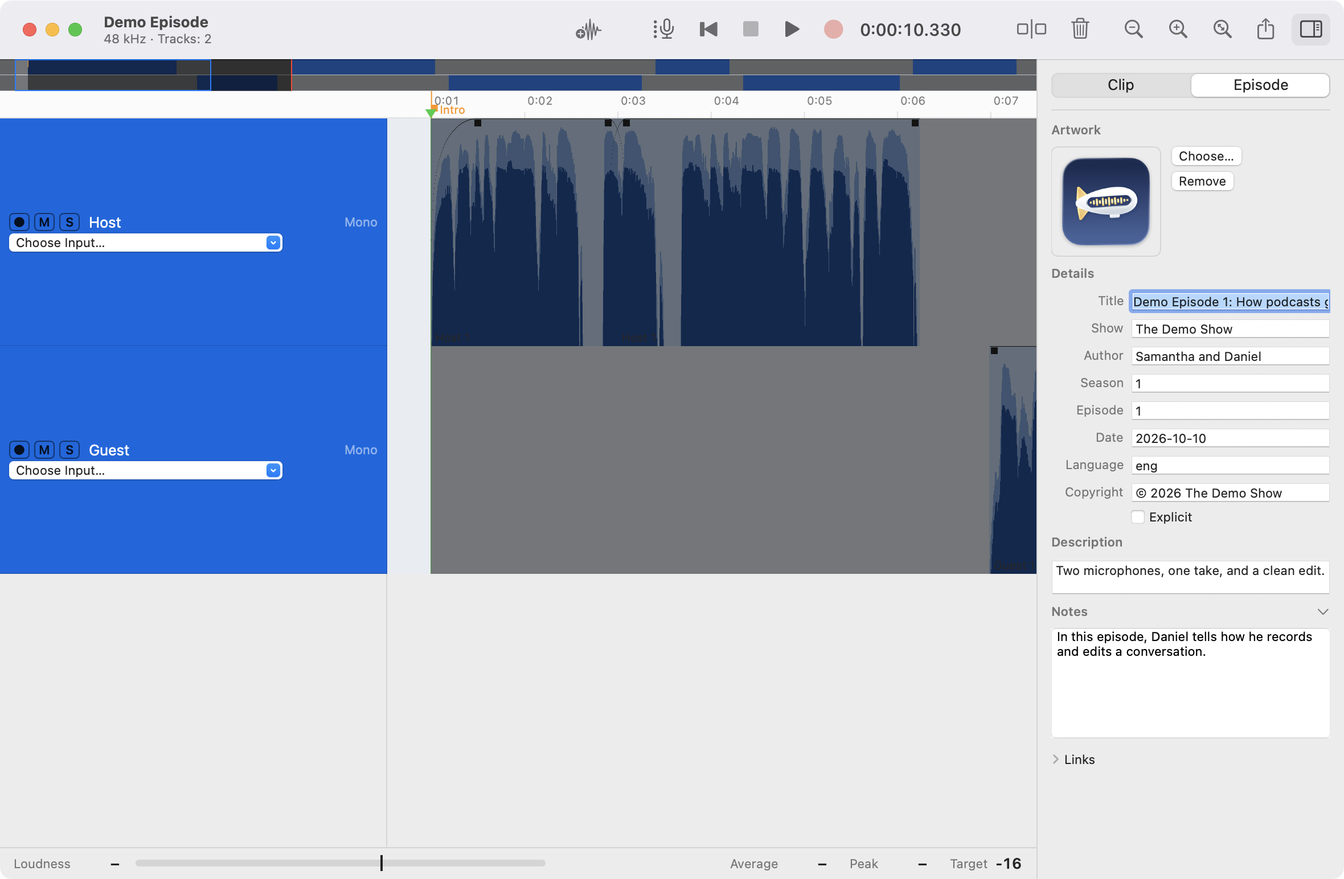
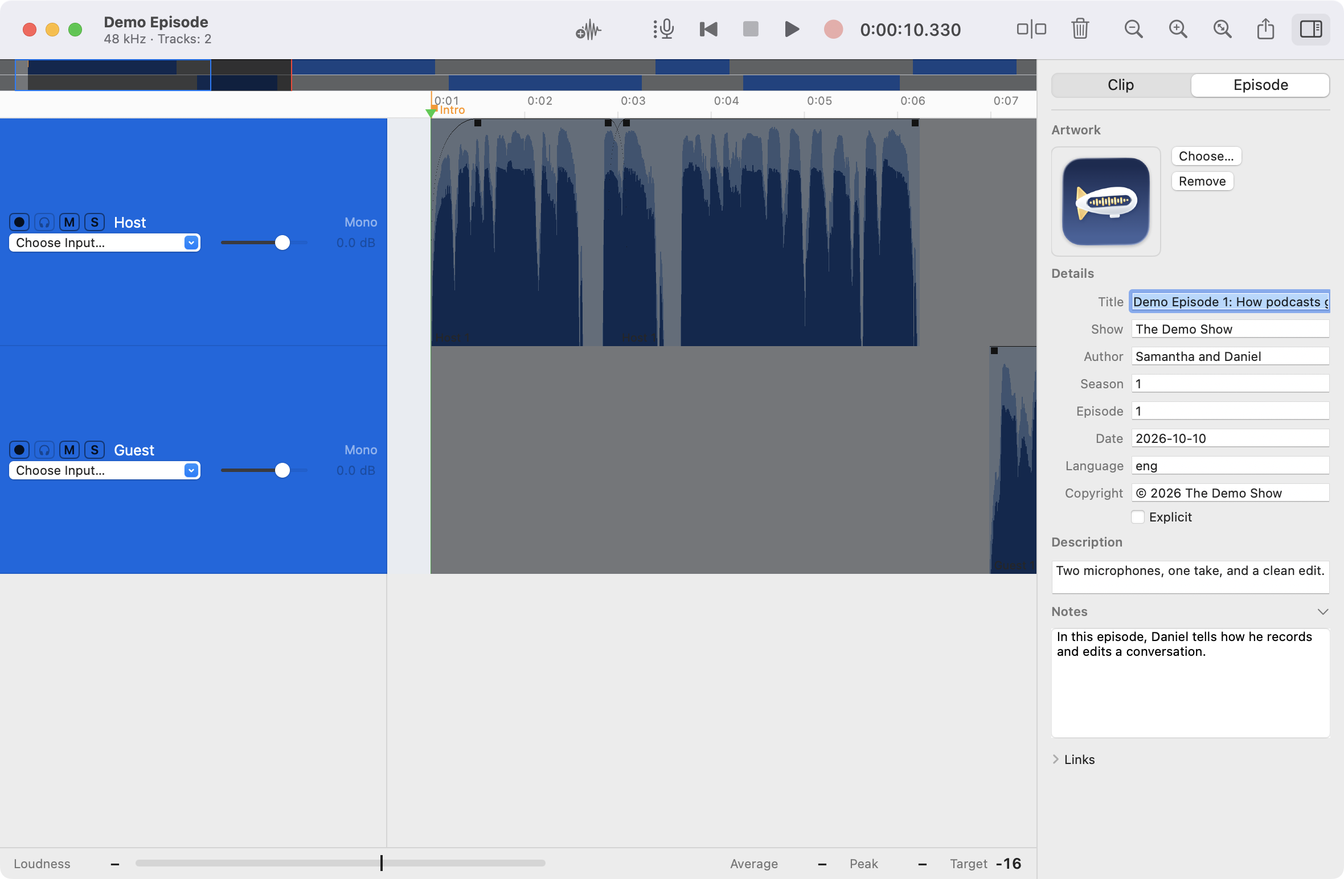
docs: describe the track volume fader
The guide gets a section on the track volume and the three Track menu
rows. The screenshots show the fader. Decisions 0039 and 0016 note the
gain crossfade and the header fader, 0008 notes the gain range, and
0024 notes the reader clamp. Release 3 item 2 states the range rule of
every edit path. The research of the run moves to docs/research.

diff --git a/Sources/DirigibleCore/Gain.swift b/Sources/DirigibleCore/Gain.swift
@@ -21,7 +21,8 @@ public struct Gain: Hashable, Sendable, CustomStringConvertible {
 
     public static let zero = Gain(dB: 0)!
     /// The gain limit of decision 0008, in dB, in each direction: auto-level, the warning of the
-    /// export report, the start rule of the gain drag of the lanes, and the clamp of the inspector.
+    /// export report, the start rule of the gain drag of the lanes, the clamp of the inspector, and
+    /// the top of the track fader (`FaderScale`).
     public static let levelLimit = 20.0
     public var description: String { "\(dB) dB" }
 }

diff --git a/docs/research/track-fader.md b/docs/research/track-fader.md
@@ -1,0 +1,142 @@
+# Track volume fader in the track header (F94)
+
+Date: 2026-10-11
+
+This file answers six questions on a track volume control in the track header. It does not repeat `docs/research/mute-solo.md`, `docs/research/podcast-features.md`, or the `.nhsx` facts of `docs/research/session-formats.md`.
+
+Grades: **P** is a primary vendor page, a vendor manual, vendor source code, or a file in the installed app bundle. **S** is a search summary or a secondary page. **U** is a user post on a forum. **O** is our observation of a vendor image or video frame. "Unconfirmed" means that no source answers. A sentence that starts with "Inference:" is our reading. No probe, build, or on-screen check ran. The installed apps are Logic Pro 12.3.1, GarageBand 10.4.14, and Final Cut Pro 12.3.
+
+## 1. Hindenburg PRO 2 and Hindenburg Journalist
+
+- **Control.** Each track header has a "Track Volume" control and a "Track Balance" control [HJ p44] (P). The Journalist 1.21 screenshots show a horizontal slider with a speaker icon, above a pan slider [HJ p45] (O). A frame of the vendor video "Hindenburg PRO: Tracks - Volume" shows the same horizontal slider in PRO 2 [HV] (O). The guide page lists "Tracks - Volume: Adjust the volume on the track" [HG] (P).
+- **Reset.** "To reset the volume to 0dB, double-click on the Volume button" [HJ p45] (P). The pan reset is also a double-click: "To reset to center, double-click on the balance button" [HJ p45] (P). The Journalist region gain line also resets with a double-click [HJ p31] (P).
+- **Readout.** The PRO video frame shows a green tag "+0.0 dB" next to the slider while the pointer is on the thumb [HV] (O). The tag shows the sign. The region gain tooltip of Journalist shows "-4.8 dB = current level" and "(-2,3) = gain change made by user" [HJ p31] (P).
+- **Range.** No source states the minimum or the maximum (unconfirmed). Observation: at "+0.0 dB" the thumb is at approximately 80 % to 85 % of the slider travel, in the PRO frame [HV] (O) and in the Journalist screenshot [HJ p45] (O). A second PRO frame shows the thumb at the right end [HV] (O); its value is not visible. The `.nhsx` field guide measured `Volume="6"` as +6 dB on a render [NX] (S, a measured reverse-engineered guide). Inference: the maximum is above 0 dB, and +6 dB is consistent with the three data points. The minimum and a -inf end are unconfirmed.
+- **Mix volume or input gain.** Journalist says "Adjust the overall volume for the track" [HJ p45] (P). Inference: it is the playback mix volume, not the record gain. No page says what it does to a take that records.
+- **Saved in the session.** The `.nhsx` `Track` element has `Volume` in dB ("the track fader") [NX] (S, measured). The field guide also lists `Gain` as "older spelling of track gain, dB" on a `Track`, and asks whether both can coexist (its open question 6) [NX] (S). `session-formats.md` names the two spellings only for regions.
+- **Keys and menus.** The Journalist key table lists no key for track volume [HJ p97] (P). Shift-Command-Up and Shift-Command-Down are region "Gain up" and "Gain Down", not track volume [HJ p97] (P). A track volume menu item: unconfirmed. The PRO 2 shortcut page returned a server error on fetch [HSC].
+- **Change during a take.** Unconfirmed.
+
+## 2. Logic Pro and GarageBand
+
+- **Logic track header.** "In the track header, drag the Volume slider left to lower the volume level, or drag it right to raise the volume level." "You might have to resize the track header in order to see the Volume slider." [LTV] (P). Track > Configure Track Header chooses the shown controls [LTH] (P, see `logic-garageband-update.md`).
+- **Logic reset.** "Option-click the slider to return it to a neutral level (0 dB gain)." [LTV] (P). The channel strip fader resets the same way [LCV] (P).
+- **Logic fine drag.** "Press and hold Shift while dragging the Volume fader to change the volume level in finer increments." [LCV] (P). This page is for the channel strip fader. Shift on the track header slider: unconfirmed.
+- **Logic range and taper.** "The maximum boost is +6 dB." "You can reset the Volume fader to 0 dB (90) by Option-clicking it." [L9] (P, Logic 9.1.6 manual). So 0 dB is at the value 90 of 127, which is 0.709 of the travel. Logic 12.3 range: unconfirmed. User posts say that the top is +6.0 dB [LCU] (U). The minimum is -inf: unconfirmed in a vendor page.
+- **Logic readout.** The track header slider holds a level meter: "The level meter in a track's Volume slider shows the output volume for the track as the project plays." [LTV] (P). Help tags show "parameter values" while you edit, when "Show Help Tags" is on [LHT] (S). A dB help tag on the track volume slider: unconfirmed.
+- **GarageBand.** The page text is the same as Logic: drag left or right, "Option-click the slider to return it to a neutral level (0 dB gain)", and a level meter in the slider [GTV] (P). "You can watch the level meter as you record to the track to see if clipping occurs on the track." [GTV] (P). Range: a user post reports +6.0 dB [GCU] (U). Fine drag and readout: unconfirmed.
+- **Keys.** A default key for track volume in Logic or GarageBand: unconfirmed.
+- **Mix volume or input gain.** A user post says that the header slider sets the playback volume after the recording [GAV] (U). Inference: the same in Logic.
+
+## 3. Final Cut Pro
+
+- **Readout.** "As you drag, the volume level in dB appears, and the waveform changes shape to reflect your adjustments." [FV] (P).
+- **Commands.** The app bundle names the commands "Raise Volume 1 dB", "Lower Volume 1 dB", "Reset Volume (0db)", "Set Volume to Silence (-∞)", "Adjust Volume Absolute…", and "Adjust Volume Relative…" [FCS] (P, `NSProCommandNames.strings`).
+- **Keys.** The default command set binds `VolumeUp` to Control-= (and Control-= on the keypad) and `VolumeDown` to Control-minus [FCK] (P, `en.lproj/Default.commandset`). Reset and Silence have no default key in that file [FCK] (P). The user guide adds Control-Option-L for absolute and Control-L for relative [FV] (P).
+- **Inspector.** "Drag the Volume slider right to increase the volume, or left to decrease it." [FV] (P). The iPad guide says that the inspector offset and the timeline volume add up [FVI] (P).
+- **Range.** The user guide gives no minimum or maximum (unconfirmed). Forum posts of 2004 to 2011 say +12 dB [FCU] (U). Those posts are for Final Cut Pro 4 to 7, before Final Cut Pro X. The minimum is -inf through Silence [FCS] (P).
+- **Fine drag.** Unconfirmed.
+
+## 4. Adobe Audition and Reaper
+
+- **Audition.** The Editor panel has a Volume knob on each track. Shift-drag changes it in large steps. Ctrl-drag (Windows) or Command-drag (macOS) changes it in small steps [AUB] (S, search summary of the Adobe page; the page refused the fetch with 403). "Alt-click or Option-click directly on a knob or fader returns it to unity gain" [AUB] (S). "Track volume can be set in the volume field on the left of the track" [AUK] (U, Community Expert). Range: unconfirmed.
+- **Reaper.** Modifiers on the volume fader [RG §5.2] (P, 7.81 guide):
+  - Ctrl: "Allows more precise control of fader level."
+  - Double click: "Reset to zero (fader) or center (rotary)."
+  - Alt: "When mouse is released, fader returns to its original position."
+  - Ctrl-Shift: with more than one track selected, only the current track changes.
+- **Reaper mix volume.** "the recording level cannot be controlled by adjusting the Track's volume fader: that controls only the playback level." [RG p59] (P).
+- **Reaper range and taper.** The preferences can "restrict the adjustable range of your volume and/or pan faders. The top of the volume range can be set to 0dB or higher." A shape option exists: "set this to 1.0 and the fader becomes a log curve." [RG §22.7] (P). The default range: unconfirmed. The default gain of a new track is 0.0 dB [RG §22.3.2] (P).
+
+## 5. Apple HIG, AppKit, and SwiftUI
+
+- **HIG.** "Use familiar slider directions": the minimum is on the leading side [HIG] (P). For macOS: "provide a tooltip that displays the value of the thumb when people hold their pointer over it", and "Consider giving live feedback as the value of a slider changes." [HIG] (P). "Consider supplementing a slider with a corresponding text field" for exact values [HIG] (P). The rule "Don't use a slider to adjust audio volume" is in the **iOS, iPadOS** section, and is about the system volume view. It is not a macOS rule [HIG] (P).
+- **Small size.** `ControlSize.small` is "for controls that can't be resized in one direction, such as … sliders". "Use a small system font with a small control." [CS] (P).
+- **NSSlider.** `altIncrementValue` is "The amount by which the slider changes its value when the user Option-drags the slider knob." [NSS] (P). `neutralValue` (the fill origin) is macOS 26.0 and later [NSN] (P), so it is not available on macOS 14.
+- **NSSlider double-click.** No AppKit page gives a double-click behavior for `NSSlider` (unconfirmed). A Cocoa-dev reply says to read `clickCount` in an override of `mouseDown(with:)`. It also says that `NSSlider` tracks the drag inside `mouseDown`, so `mouseUp` can fail to arrive [CD] (U). Inference: a double-click reset in AppKit needs a subclass.
+- **Accessibility.** `NSSlider` conforms to `NSAccessibilitySlider` [NSS] (P). That protocol has `accessibilityLabel()`, `accessibilityValue()`, `accessibilityPerformIncrement()`, and `accessibilityPerformDecrement()` [NAS] (P). `accessibilityValueDescription()` gives "the human-readable description of the accessibility element's value" [NAV] (P). In SwiftUI, `accessibilityAdjustableAction(_:)` (macOS 10.15) adds the increment and decrement action to a custom view [SAA] (P). A SwiftUI `Slider` "uses the `step` to increase or decrease the value when a VoiceOver user adjusts the slider" [SS] (P).
+- **SwiftUI `Slider`.** "The slider calls `onEditingChanged` when editing begins and ends. For example, on iOS, editing begins when the user starts to drag the thumb along the slider's track." [SSE] (P). The page gives the iOS case only; the macOS mouse-down and mouse-up timing is unconfirmed. `Slider` maps the value linearly ("a bounded linear range of values") [SS] (P). Inference: a dB taper needs a slider over a position (0 to 1) and a map from the position to dB. The `neutralValue` initializers are macOS 26.0 and later [SNV] (P).
+- **SwiftUI double-click.** No source covers a double-click on a `Slider` (unconfirmed). On a macOS `List`, a `TapGesture(count: 2)` breaks the single-click selection [AF] (U). That is an analogy only.
+
+## 6. Taper for a 60 to 120 pt slider
+
+- **Ardour source.** Ardour maps the gain coefficient `g` (0 to 2, so the top is +6 dB) to a position `p` (0 to 1) [AR] (P, `libs/pbd/pbd/control_math.h`):
+
+```c
+return pow ((6.0 * log (g) / log (2.0) + 192.0) / 198.0, 8.0);
+```
+
+- Positions from this formula (our arithmetic): +6 dB 1.00; 0 dB 0.78; -3 dB 0.69; -6 dB 0.61; -12 dB 0.47; -20 dB 0.32; -40 dB 0.12; -60 dB 0.04. `g == 0` (-inf) is position 0.
+- **Logic data point.** 0 dB at 90 of 127, which is 0.71 [L9] (P). Hindenburg: 0 dB at approximately 0.80 to 0.85 [HV] (O). Inference: the three apps put 0 dB at 70 % to 85 % of the travel.
+- **Linear in dB.** Over -60 to +6 dB (66 dB) the scale is constant: 0.91 pt per dB at 60 pt, 1.5 pt per dB at 100 pt, 1.8 pt per dB at 120 pt. 0 dB is at 0.91 of the travel. The last few points at the left must snap to -inf.
+- **Ardour curve, 100 pt.** From -6 to 0 dB it gives 17.5 pt (2.9 pt per dB). From -40 to -20 dB it gives 20 pt (1 pt per dB). From -60 dB to the left end it gives 4 pt.
+- **Tradeoff.** The curve gives more travel near 0 dB, where a podcaster sets a speaker level (0 to -12 dB). Linear in dB is simpler to test and to read, but at 60 pt one point is more than 1 dB. At 60 to 120 pt, one mouse point is 0.3 to 1.1 dB near 0 dB with either scale. Inference: a fine drag modifier and a typed or keyed step matter more than the curve at this width.
+
+## Open questions for the plan
+
+1. The Hindenburg PRO 2 minimum and maximum. Check the readout at both ends in a trial copy.
+2. A probe for SwiftUI on macOS 14 (run after the loop, in a probe folder). The question: does a drag still start, and when does `onEditingChanged` fire?
+
+```swift
+import SwiftUI
+struct Probe: View {
+    @State var position = 0.78
+    var body: some View {
+        Slider(value: $position, in: 0...1) { editing in print("editing", editing, Date()) }
+            .controlSize(.small)
+            .frame(width: 100)
+            .simultaneousGesture(TapGesture(count: 2).onEnded { position = 0.78; print("double") })
+    }
+}
+```
+
+   Run it again with `.onTapGesture(count: 2)` in place of `.simultaneousGesture`.
+3. The reset gesture: double-click (Hindenburg, Reaper) or Option-click (Logic, GarageBand, Audition). Option-click also conflicts with the AppKit Option-drag of `altIncrementValue` if the control uses AppKit. This is a plan decision.
+
+## Inputs for the run
+
+- **Range.** No agreement. The sources agree only that 0 dB is unity and that the top is above 0 dB. Logic +6 dB [L9] (P, Logic 9). Hindenburg +6 dB is consistent but not stated [NX] [HV]. Final Cut Pro +12 dB in legacy versions [FCU] (U). Reaper is configurable [RG]. A -inf bottom: Final Cut Pro Silence [FCS] (P); others unconfirmed.
+- **Taper.** 0 dB sits at 70 % to 85 % of the travel in Logic [L9] (P), Ardour [AR] (P), and Hindenburg [HV] (O). Ardour publishes its curve. Linear in dB is not seen in these references.
+- **Reset.** Two groups. Double-click: Hindenburg [HJ] (P), Reaper [RG] (P). Option-click: Logic [LTV] (P), GarageBand [GTV] (P), Audition [AUB] (S). The target is 0 dB in all of them.
+- **Fine drag.** No agreement. Shift: Logic channel strip [LCV] (P). Command: Audition [AUB] (S). Ctrl: Reaper [RG] (P). AppKit gives Option-drag steps [NSS] (P).
+- **Keys.** Only Final Cut Pro has owner-source keys: Control-= and Control-minus for 1 dB steps [FCK] (P). Track volume keys in Hindenburg, Logic, GarageBand, and Audition: unconfirmed. Hindenburg Shift-Command-Up and Shift-Command-Down are region gain [HJ] (P).
+- **Readout.** Agreement: a dB value shows during the drag. Hindenburg "+0.0 dB" tag with the sign and one decimal [HV] (O). Final Cut Pro "the volume level in dB appears" [FV] (P). Logic help tags show parameter values [LHT] (S). HIG asks for a value tooltip [HIG] (P).
+- **Mix volume, not record gain.** Reaper states it [RG] (P). Hindenburg and GarageBand: Inference and U only.
+
+## Sources
+
+- [HJ] Hindenburg Journalist 1.21 user guide for OS X, pages 31, 44, 45, 97 (text and images read with PDFKit on 2026-10-11): https://www.willyurman.com/teaching/handouts/Hindenburg_Journalist.pdf
+- [HV] Hindenburg vendor video "Hindenburg PRO: Tracks - Volume" (21 s), frames `maxres1` to `maxres3`: https://hindenburg.com/data/youtube/videos/how-to-adjust-the-volume-on-a-track-in-hindenburg-pro-hindenburg/ and https://www.youtube.com/watch?v=cAiJ6LQ_UXg
+- [HG] Hindenburg PRO guides page: https://hindenburg.com/academy/guides/guides-hindenburg-pro/
+- [HSC] Hindenburg PRO 2 shortcuts (server error on 2026-10-11): https://hindenburg.com/academy/shortcuts/shortcuts-hindenburg-2-pro/
+- [NX] `.nhsx` field guide, section 5, measured against Hindenburg PRO 2.05.2718: https://github.com/ollisulopuisto/podcast/blob/main/docs/hindenburg-nhsx-format.md
+- [LTV] Logic Pro, track volume in the track header: https://help.apple.com/logicpro/mac/10.1/en.lproj/lgcp86b5c092.html
+- [LTH] Logic Pro, track header overview: https://help.apple.com/logicpro/mac/10.1/en.lproj/lgcpe53c68af.html
+- [LCV] Logic Pro, set channel strip volume: https://help.apple.com/logicpro/mac/10.4.5/en.lproj/lgcp8ec34eec.html
+- [L9] Logic Pro 9.1.6 manual, setting channel strip levels: https://help.apple.com/logicpro/mac/9.1.6/en/logicpro/usermanual/chapter_27_section_9.html
+- [LHT] Logic Pro 9.1.6, display preferences (search summary): https://help.apple.com/logicpro/mac/9.1.6/en/logicpro/usermanual/chapter_44_section_6.html
+- [LCU] Apple Community, "Logic Pro X max volume on mixer only goes…": https://discussions.apple.com/thread/251378765
+- [GTV] GarageBand for Mac, track volume: https://help.apple.com/garageband/mac/10.1.5/en.lproj/gbnd79295c4f.html
+- [GCU] Apple Community, "GarageBand - Volume on track Glitches": https://discussions.apple.com/thread/251446572
+- [GAV] Ask.Video forum, header slider versus record level (search summary): https://test.ask.video/forums/audio/garageband/thread/9669-different-recording/3
+- [FV] Final Cut Pro for Mac, adjust volume: https://support.apple.com/guide/final-cut-pro/verc1fabb77/mac
+- [FVI] Final Cut Pro for iPad, adjust volume: https://support.apple.com/guide/final-cut-pro-ipad/dev9ffc54d16/ipados
+- [FCS] Final Cut Pro 12.3 app bundle, `Contents/Resources/en.lproj/NSProCommandNames.strings` and `NSProCommandDescriptions.strings` (read on 2026-10-11)
+- [FCK] Final Cut Pro 12.3 app bundle, `Contents/Resources/en.lproj/Default.commandset` (read with `plutil -p` on 2026-10-11)
+- [FCU] Legacy Final Cut Pro forum posts on +12 dB: https://www.dvinfo.net/forum/final-cut-suite/50432-boosting-volume.html and https://creativecow.net/?p=513747
+- [AUB] Adobe Audition, basic multitrack controls (403 on fetch; search summary): https://helpx.adobe.com/audition/desktop/mixing-multitrack-sessions/basic-multitrack-controls.html
+- [AUK] Adobe Community, "multitrack change volume of track with keyboard": https://community.adobe.com/t5/audition-discussions/multitrack-change-volume-of-track-with-keyboard/m-p/14936737
+- [RG] REAPER User Guide 7.81 (text read with PDFKit on 2026-10-11), section 5.2, page 59, sections 22.3.2 and 22.7: https://www.reaper.fm/userguide/ReaperUserGuide781c.pdf
+- [AR] Ardour source, `libs/pbd/pbd/control_math.h`: https://github.com/Ardour/ardour/blob/master/libs/pbd/pbd/control_math.h
+- [HIG] Human Interface Guidelines, Sliders: https://developer.apple.com/design/human-interface-guidelines/sliders
+- [CS] AppKit, `NSControl.ControlSize.small`: https://developer.apple.com/documentation/appkit/nscontrol/controlsize-swift.enum/small
+- [NSS] AppKit, `NSSlider` (members and conformances): https://developer.apple.com/documentation/appkit/nsslider
+- [NSN] AppKit, `NSSlider.neutralValue`: https://developer.apple.com/documentation/appkit/nsslider/neutralvalue
+- [NAS] AppKit, `NSAccessibilitySlider`: https://developer.apple.com/documentation/appkit/nsaccessibilityslider
+- [NAV] AppKit, `accessibilityValueDescription()`: https://developer.apple.com/documentation/appkit/nsaccessibilityprotocol/accessibilityvaluedescription()
+- [SS] SwiftUI, `Slider`: https://developer.apple.com/documentation/swiftui/slider
+- [SSE] SwiftUI, `Slider.init(value:in:onEditingChanged:)`: https://developer.apple.com/documentation/swiftui/slider/init(value:in:oneditingchanged:)
+- [SNV] SwiftUI, `Slider` initializer with `neutralValue`: https://developer.apple.com/documentation/swiftui/slider/init(value:in:neutralvalue:enabledbounds:label:currentvaluelabel:minimumvaluelabel:maximumvaluelabel:oneditingchanged:)
+- [SAA] SwiftUI, `accessibilityAdjustableAction(_:)`: https://developer.apple.com/documentation/swiftui/view/accessibilityadjustableaction(_:)
+- [CD] Cocoa-dev, double-click on an `NSSlider`: https://lists.apple.com/archives/Cocoa-dev/2007/Mar/msg00767.html and https://lists.apple.com/archives/Cocoa-dev/2007/Apr/msg00550.html
+- [AF] Apple Developer Forums, double tap on a macOS `List` item: https://developer.apple.com/forums/thread/654154

diff --git a/docs/requirements/releases.md b/docs/requirements/releases.md
@@ -123,7 +123,7 @@ Rules for Release 3:
 Run order. The research for this order is in `docs/research/podcast-features.md`, `document-window.md`, `mouse-edits.md`, `final-cut-pro.md`, `logic-garageband-update.md`, and `podcasting-2.md`. The tester requests are in `.scratchpads/runs/feedback-2026-10-04.md` (B1.5, B2.7, B2.9, B2.10).
 
 1. **Record monitor (F02 part).** The tester asked for it two times (B1.5, B2.10). A Monitor button in each track header, next to Arm, sends the input of the track to the output, before and during a take. Start with a probe: the latency and the clock drift from the built-in microphone, and from a USB device, to the headphones. `CaptureRing` has one consumer, the `DeviceWriter`. The monitor needs a second ring that the input proc fills, and an output render that reads it and absorbs the drift. Input and output are different devices with no aggregate device (0004). When the output is the built-in speakers, the monitor plays nothing, its button keeps its state, and the "Use headphones" banner shows (F43, `DeviceList.speakers`). An app track has no monitor: the user already hears the call app. Give the meter item and the monitor item two clear names: the toolbar item Monitor Inputs shows only meters today. The monitor state is window state, as Arm, so the session version does not change. No `dirigible` command: the monitor writes nothing to a package, and its output is for a person (0015). The UI expert panel picks the header layout, and the layout keeps space for the fader of run 2. One-way decisions: the owner and the thread of the monitor output path (the `Player` engine with a source node, a second engine, or a separate output IOProc; the Owners rule of 0013); the owner of the monitor input feed, which must live across the hand-over to a take (0015); the drift rule of the monitor ring; whether playback runs during a take (0039 Consequences gives this choice to this run, also for M and S during a take). Research: `document-window.md` section 8, `process-taps.md` line 143, 0015. Manual checks: the latency on headphones, and no feedback on the speakers. Bench case: none if the lanes do not change. The run can split at its plan: **1a** the audio path and a menu item, **1b** the header button, after the arm button run (`feat/arm-toggle-button`) lands.
-2. **Track fader (F94).** The tester asked for a volume control in the track header (B2.9). `Track.gain` is already in the session, the mix, `dirigible track gain`, and the MCP tool `track_gain`. This run adds the UI only: a fader in the header with a dB readout, and a double-click that resets it to 0 dB. A drag plays the new gain at once and makes one edit at the mouse-up: one undo entry and one autosave. A gain change during play uses the mix crossfade of 0039, so it does not step at a chunk boundary (backlog Later item on 0039 point 5). The fader is off during a take, as M and S (0039). Put a range on `Gain(dB:)` in Core, so the fader, the CLI, and the MCP tool refuse the same values (backlog Later item of run 2026-10-07-mcp-cli). The tester said "input volume". Hindenburg's header fader is the track volume of the mix. The run asks the tester to confirm this reading. One-way decisions: none (the header layout comes from the panel of run 1). Bench case: a fader drag during play.
+2. **Track fader (F94).** The tester asked for a volume control in the track header (B2.9). `Track.gain` is already in the session, the mix, `dirigible track gain`, and the MCP tool `track_gain`. This run adds the UI only: a fader in the header with a dB readout, and a double-click that resets it to 0 dB. A drag plays the new gain at once and makes one edit at the mouse-up: one undo entry and one autosave. A gain change during play uses the mix crossfade of 0039, so it does not step at a chunk boundary (backlog Later item on 0039 point 5). The fader is off during a take, as M and S (0039). Put a range on `Gain(dB:)` in Core, so the fader, the CLI, and the MCP tool refuse the same values (backlog Later item of run 2026-10-07-mcp-cli). The tester said "input volume". Hindenburg's header fader is the track volume of the mix. The run asks the tester to confirm this reading. Rule: every edit path (the app, `dirigible`, MCP) refuses a gain outside -96 to +96 dB. -60 to +20 dB is only the fader travel: a stored value outside the travel pins the thumb, and a drag or a key step does not move it further out. One-way decisions: none (the header layout comes from the panel of run 1). Bench case: a fader drag during play.
 3. **Snap (F82, B2.7).** A clip move, a trim, and a range drag snap to clip edges, the playhead, and the markers, and an alignment guide line shows. View > Snap turns it on and off, with a key. A modifier held during a drag turns snap off for that drag. The snap setting is an app preference, so the session version does not change. No `dirigible` command: snap changes only a mouse gesture, as run 4d of Release 1. Riskiest part first: the snap target search at 2 h with many clips, inside the frame budget of a mouse event. One-way decisions: the snap step in the gesture model (amends 0020); the snap distance in points; the modifier. Research: `mouse-edits.md` section 5, `logic-garageband-update.md`. Bench case: a snap drag at 2 h.
 4. **Episode metadata and artwork (F55).** All the metadata that podcast apps read (user request). The fields: title, show (album), host or author (artist), episode and season numbers, date, genre Podcast, language, copyright, the explicit flag, the episode notes and description (ID3 COMM and TDES, MP4 `desc` and `ldes`), the episode and feed URLs (WXXX, WOAF, WFED), the podcast flags (PCST, TGID), and the artwork (APIC, `covr`). They go in the session, in the MP3 (ID3) and M4A files, in a metadata panel in the app, and in a `dirigible` option for each field. Raises the session version. The research step lists what Apple Podcasts, Overcast, Pocket Casts, and Spotify read. One-way decision: the metadata fields in `session.xml`.
 5. **Chapters inside the audio file (F56 part).** ID3 CHAP and CTOC in MP3 with the sub-frames TIT2, WXXX, and APIC, and a chapter track in M4A, from the chapter markers of run 16 of Release 2. Each chapter has a title, a URL, and an image, also in `chapters.json` (`url`, `img`). One-way decisions: none.

diff --git a/docs/guide.md b/docs/guide.md
@@ -317,6 +317,17 @@ Each track header has the buttons **M** (mute) and **S** (solo), after the arm b
 - A session with a muted or soloed track does not open in a version of Dirigible from before mute and solo.
 - In Terminal, `dirigible track mute <package> <track>...` and `dirigible track solo <package> <track>...` set the buttons, and `--off` clears them.
 
+### Set the volume of a track
+
+A track header with two lines has a volume slider and its value in dB at the end of the second line. The volume is the level of the track in the mix: it does not change the recording level. The slider goes from -60 dB to +20 dB, and 0 dB is three quarters of the way.
+
+- Drag the slider to change the volume. During play, you hear the new volume while you drag. The change is one step of **Edit > Undo** when you release the mouse button.
+- Double-click or Option-click the slider to set 0 dB.
+- To change the volume of the selected tracks, choose **Track > Raise Track Volume** (Control-=) or **Track > Lower Track Volume** (Control-minus). Each track moves 1 dB from its own value, so the balance between the tracks stays. **Track > Reset Track Volume** (Control-0) sets 0 dB. With no selected track, the Mac beeps. On a Spanish keyboard, press Control-Shift-0 for Control-=.
+- During a take, the slider and the menu items are off. While a track records or you monitor it, its meter shows in place of the slider.
+- A lane under 56 pt and a header under 252 pt wide show no slider. The menu items still work.
+- In Terminal, `dirigible track gain <package> <track> --db <dB>` sets the volume, from -96 dB to +96 dB.
+
 ### Hear a track while you record
 
 **Track > Monitor Track** (**Monitorizar pista**) plays the input of the selected tracks in your headphones.
@@ -557,6 +568,9 @@ The **Track** menu (**Pista**).
 | **Remove Track** | **Eliminar pista** | Option-Command-Delete |
 | **Mute Track** | **Silenciar pista** | Shift-M |
 | **Solo Track** | **Solo de pista** | Shift-S |
+| **Raise Track Volume** | **Subir volumen de pista** | Control-= |
+| **Lower Track Volume** | **Bajar volumen de pista** | Control-minus |
+| **Reset Track Volume** | **Restablecer volumen de pista** | Control-0 |
 | **Monitor Track** | **Monitorizar pista** | Control-Command-M |
 
 ### Record

diff --git a/docs/decisions/0016-player-and-transport.md b/docs/decisions/0016-player-and-transport.md
@@ -8,6 +8,7 @@
 - Amended: 2026-09-29, record-over-gap run: the record-over overlay reads only the first clip of each armed track that ends after the playhead, not only a clip under the playhead. With the playhead in a gap, a take replaced a clip out of view with no warning.
 - Amended: 2026-10-03, player-executor run. The `Player` refills on its own clock: a timer on its own serial dispatch queue, each half chunk, from a play to the next command. The `.dataConsumed` handler goes: AVFAudio delivers it on a QoS 21 queue that a full cooperative pool delays. On macOS 14 the tick keeps a `Task` hop (SE-0424). See below.
 - Amended: 2026-10-05, run `2026-10-05-mute-solo`. A session update during play crossfades the next chunk only when the heard set of the tracks that are in both sessions changes (a mute or solo change, or the removal of the only soloed track): the chunk renders with the old and the new session and mixes them with a linear ramp in output order. A track add or remove, or another edit, steps at the chunk boundary, as before. The pending crossfade is in the feed, so the dry restart keeps it and a seek or a stop drops it (see 0039).
+- Amended: 2026-10-11, run `2026-10-11-track-fader`. A track gain change of a track in both sessions crossfades too. A fader drag sends a preview session to the Player with no edit (`Studio.previewGain`), and `endPreview` sends the session again.
 - Amended: 2026-10-03, run 9b. The Player feeds the live loudness meter per scheduled chunk of a 1x forward play when the output has played it, and `Reading` carries the values of the heard frame. See 0033.
 - Amended: 2026-10-03, run 11a. The mix multiplies clip gain plus track gain by the fade factor of 0035.
 - Amended: 2026-10-04, run 11c-1. The mix finds a clip by its sounding range and takes the fade factor of the sounding clip, so a crossfade plays from the media handles (see 0036).

diff --git a/docs/decisions/0008-loudness-and-auto-level.md b/docs/decisions/0008-loudness-and-auto-level.md
@@ -6,6 +6,7 @@
 - Amended: 2026-10-03, run 8b. A clip with no gated block, a missing file, or a read fault keeps its gain, not 0 dB. At stop the take clips of one track share one delta (equally per track). See 0031.
 - Amended: 2026-10-03, run 9a. The true-peak meter and Tech 3341 cases 15 to 19 are done (`DSP/TruePeak.swift`). The export limiter is our own look-ahead true-peak limiter, not `kAudioUnitSubType_PeakLimiter`; the Consequences line on it is history. See 0032.
 - Amended: 2026-10-03, run 9b. One meter still serves all three: the live meter (momentary, short-term, integrated, and true peak) uses `LoudnessMeter` and `TruePeakMeter`, and the gates compare mean squares. See 0033.
+- Amended: 2026-10-11, run `2026-10-11-track-fader`. `Gain(dB:)` refuses a value outside `Gain.range`, -96 to +96 dB. `Gain(clamping:)` clamps a computed gain (the reader, the export loudness gain, the clip conversion, the excerpt sum) and refuses a value that is not finite. The track fader travel ends at `Gain.levelLimit`.
 
 ## Context
 

diff --git a/docs/decisions/0039-track-mute-and-solo.md b/docs/decisions/0039-track-mute-and-solo.md
@@ -5,6 +5,7 @@
 - Accepted: 2026-10-05, after plan gates 1 and 2 of run `2026-10-05-mute-solo`.
 - Amended: 2026-10-10. No playback runs during a take, and M and S stay off during a take. Release 3 run 9 (pre-roll) decides playback, M, and S during a take (see 0044).
 - Amended: 2026-10-10. The Monitor button of 0044 goes between the arm button and M. M and S hide first: from 328 pt on one line and 230 pt on two lines. The Monitor button shows from 284 pt and 186 pt.
+- Amended: 2026-10-11, run `2026-10-11-track-fader` (F94). A track gain change of a track in both sessions also crossfades during play. Line 2 of a two-line row shows the volume fader from 252 pt, when the row shows no live state and no quiet text. The line 1 gates do not change.
 - Amends: 0003 (version 5 adds mute and solo), 0016 (an update during play crossfades a mute or solo change), 0019 (the track filter of `MixReader`), 0024 (the `session.xml` version table).
 
 ## Context

diff --git a/docs/decisions/0024-file-format-versioning.md b/docs/decisions/0024-file-format-versioning.md
@@ -11,6 +11,7 @@
 - Amended: 2026-10-05, run `2026-10-05-mute-solo`. `session.xml` is version 5 with a muted or soloed track (see 0039).
 - Amended: 2026-10-10, run `2026-10-10-episode-metadata`. `session.xml` is version 6 with episode data (see 0045).
 - Amended: 2026-10-09, run `2026-10-09-autosave-backups` (see 0043). The formats table has the backup files `Backups/session-<time>.xml`.
+- Amended: 2026-10-11, run `2026-10-11-track-fader`. The reader clamps a gain outside `Gain.range` to the range end and keeps the session version. It still refuses a gain that is not finite.
 
 ## Context
 
